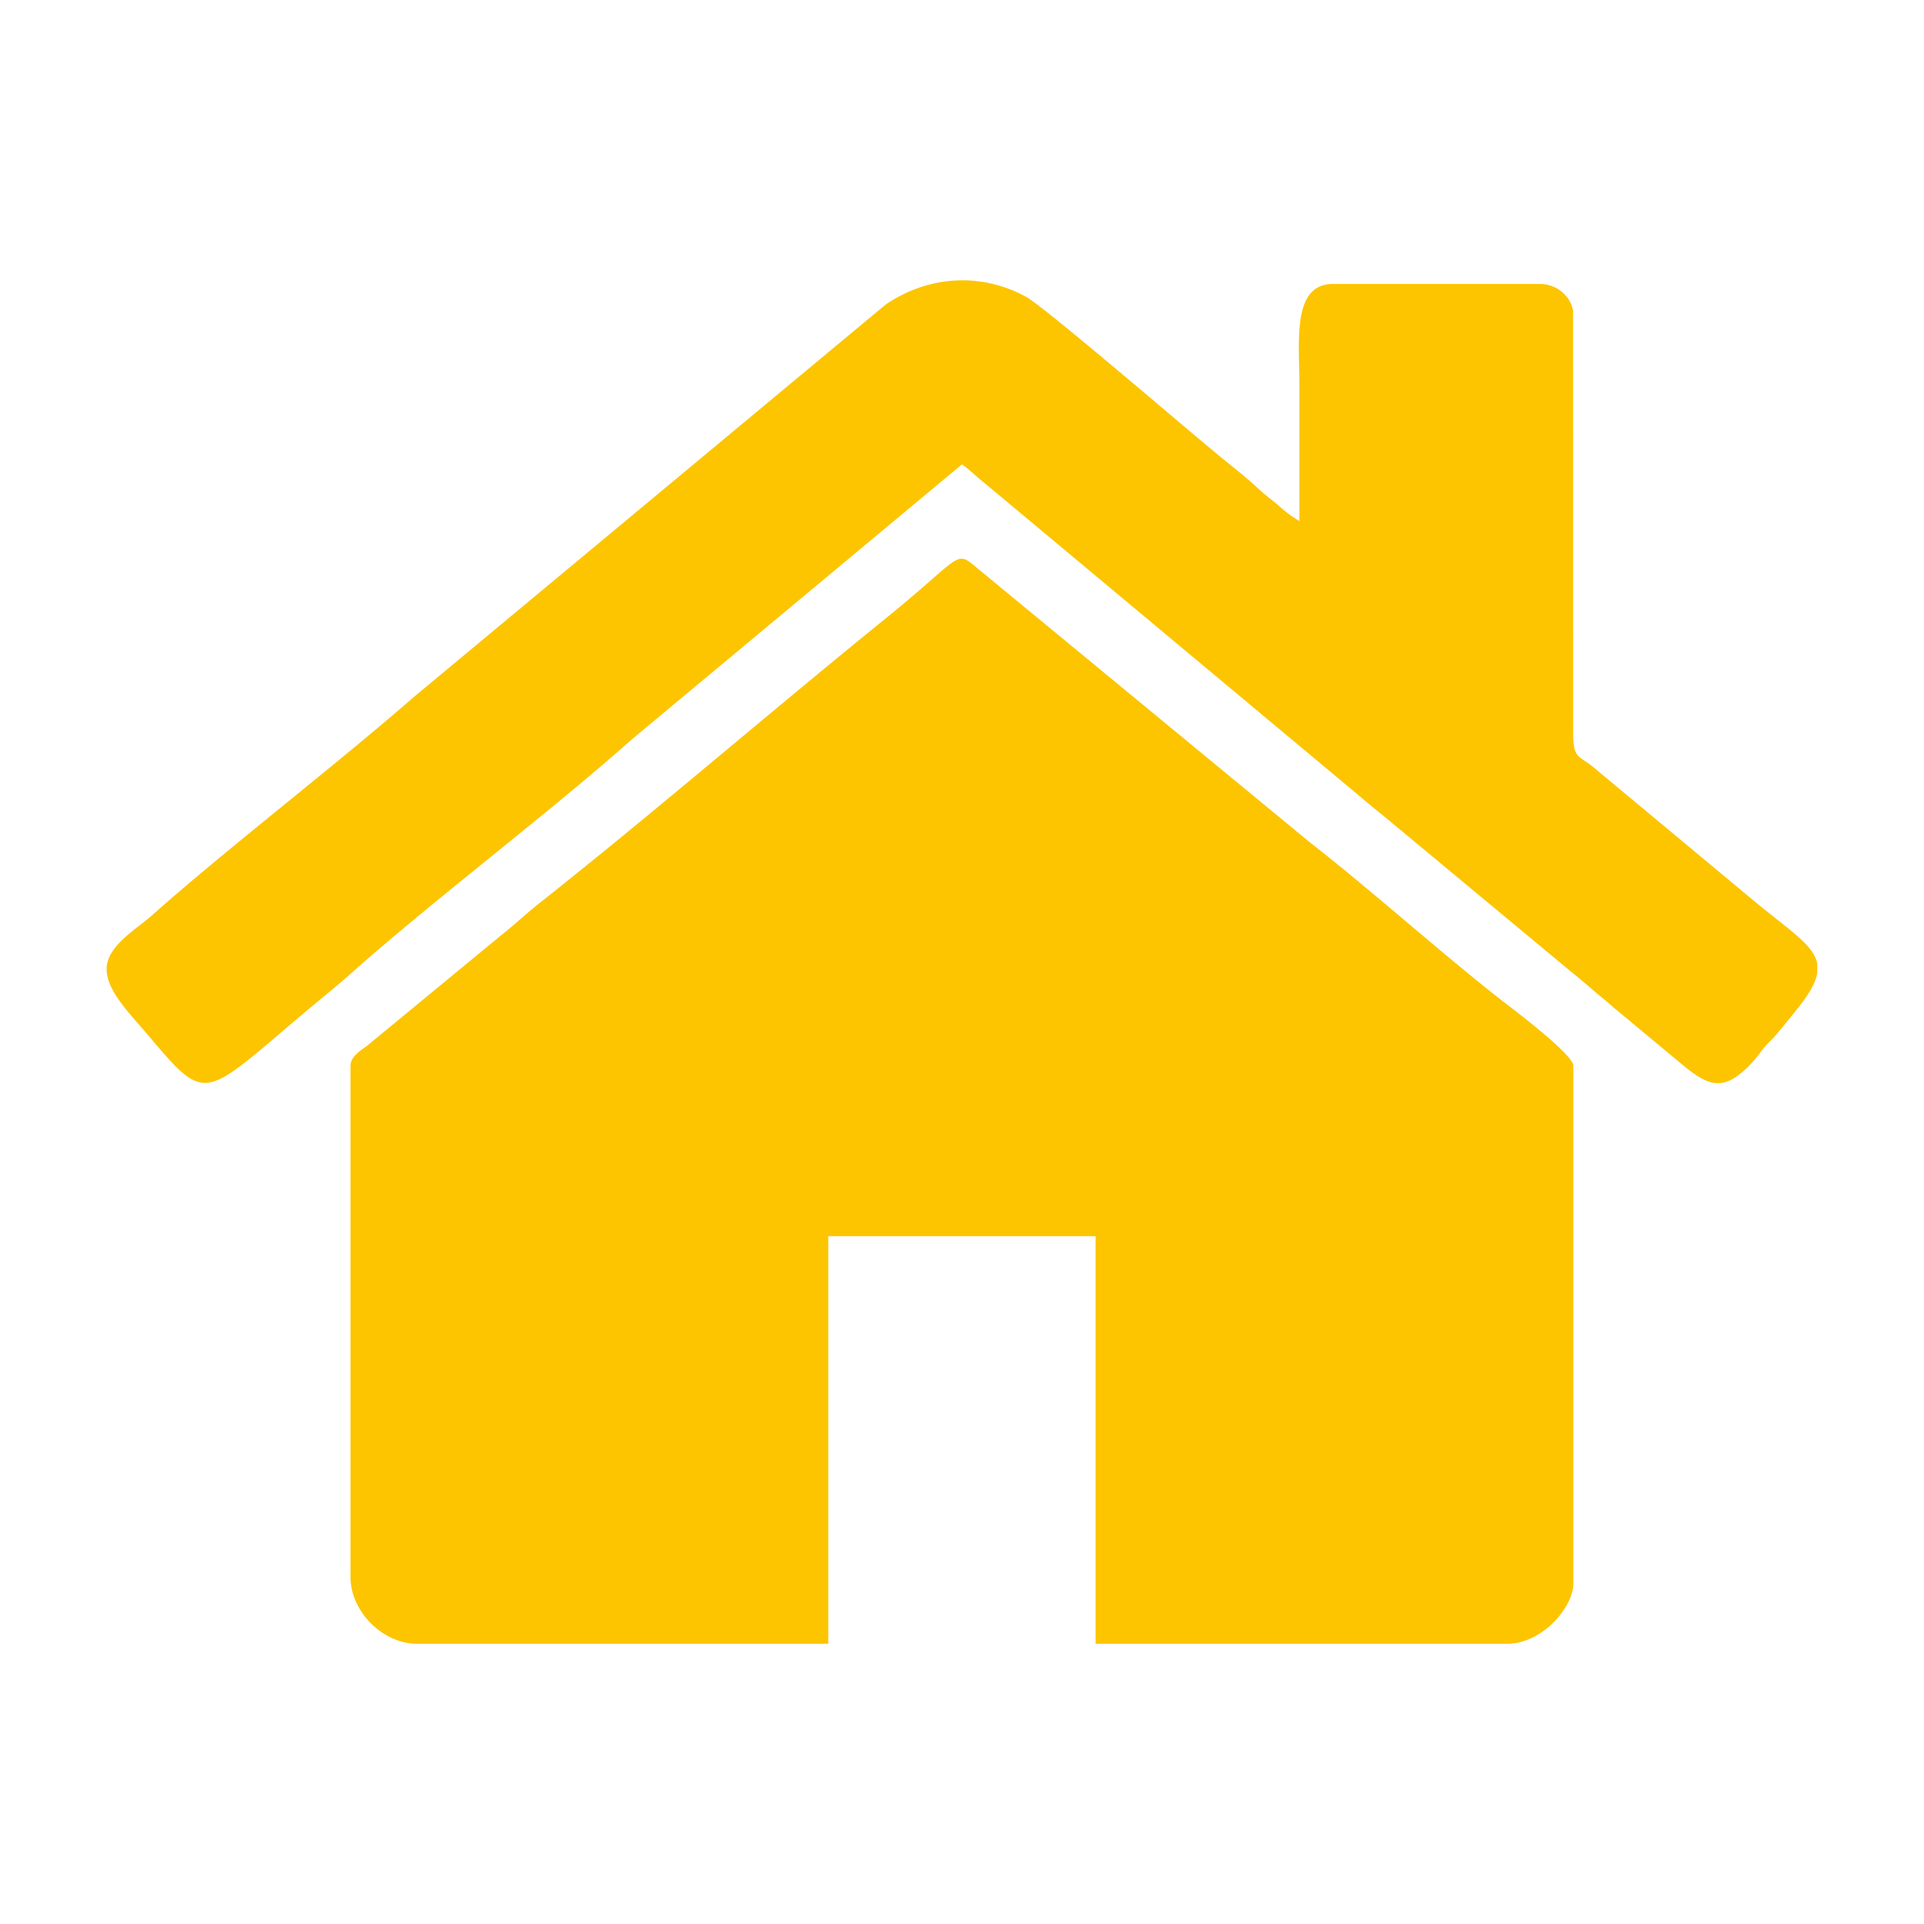
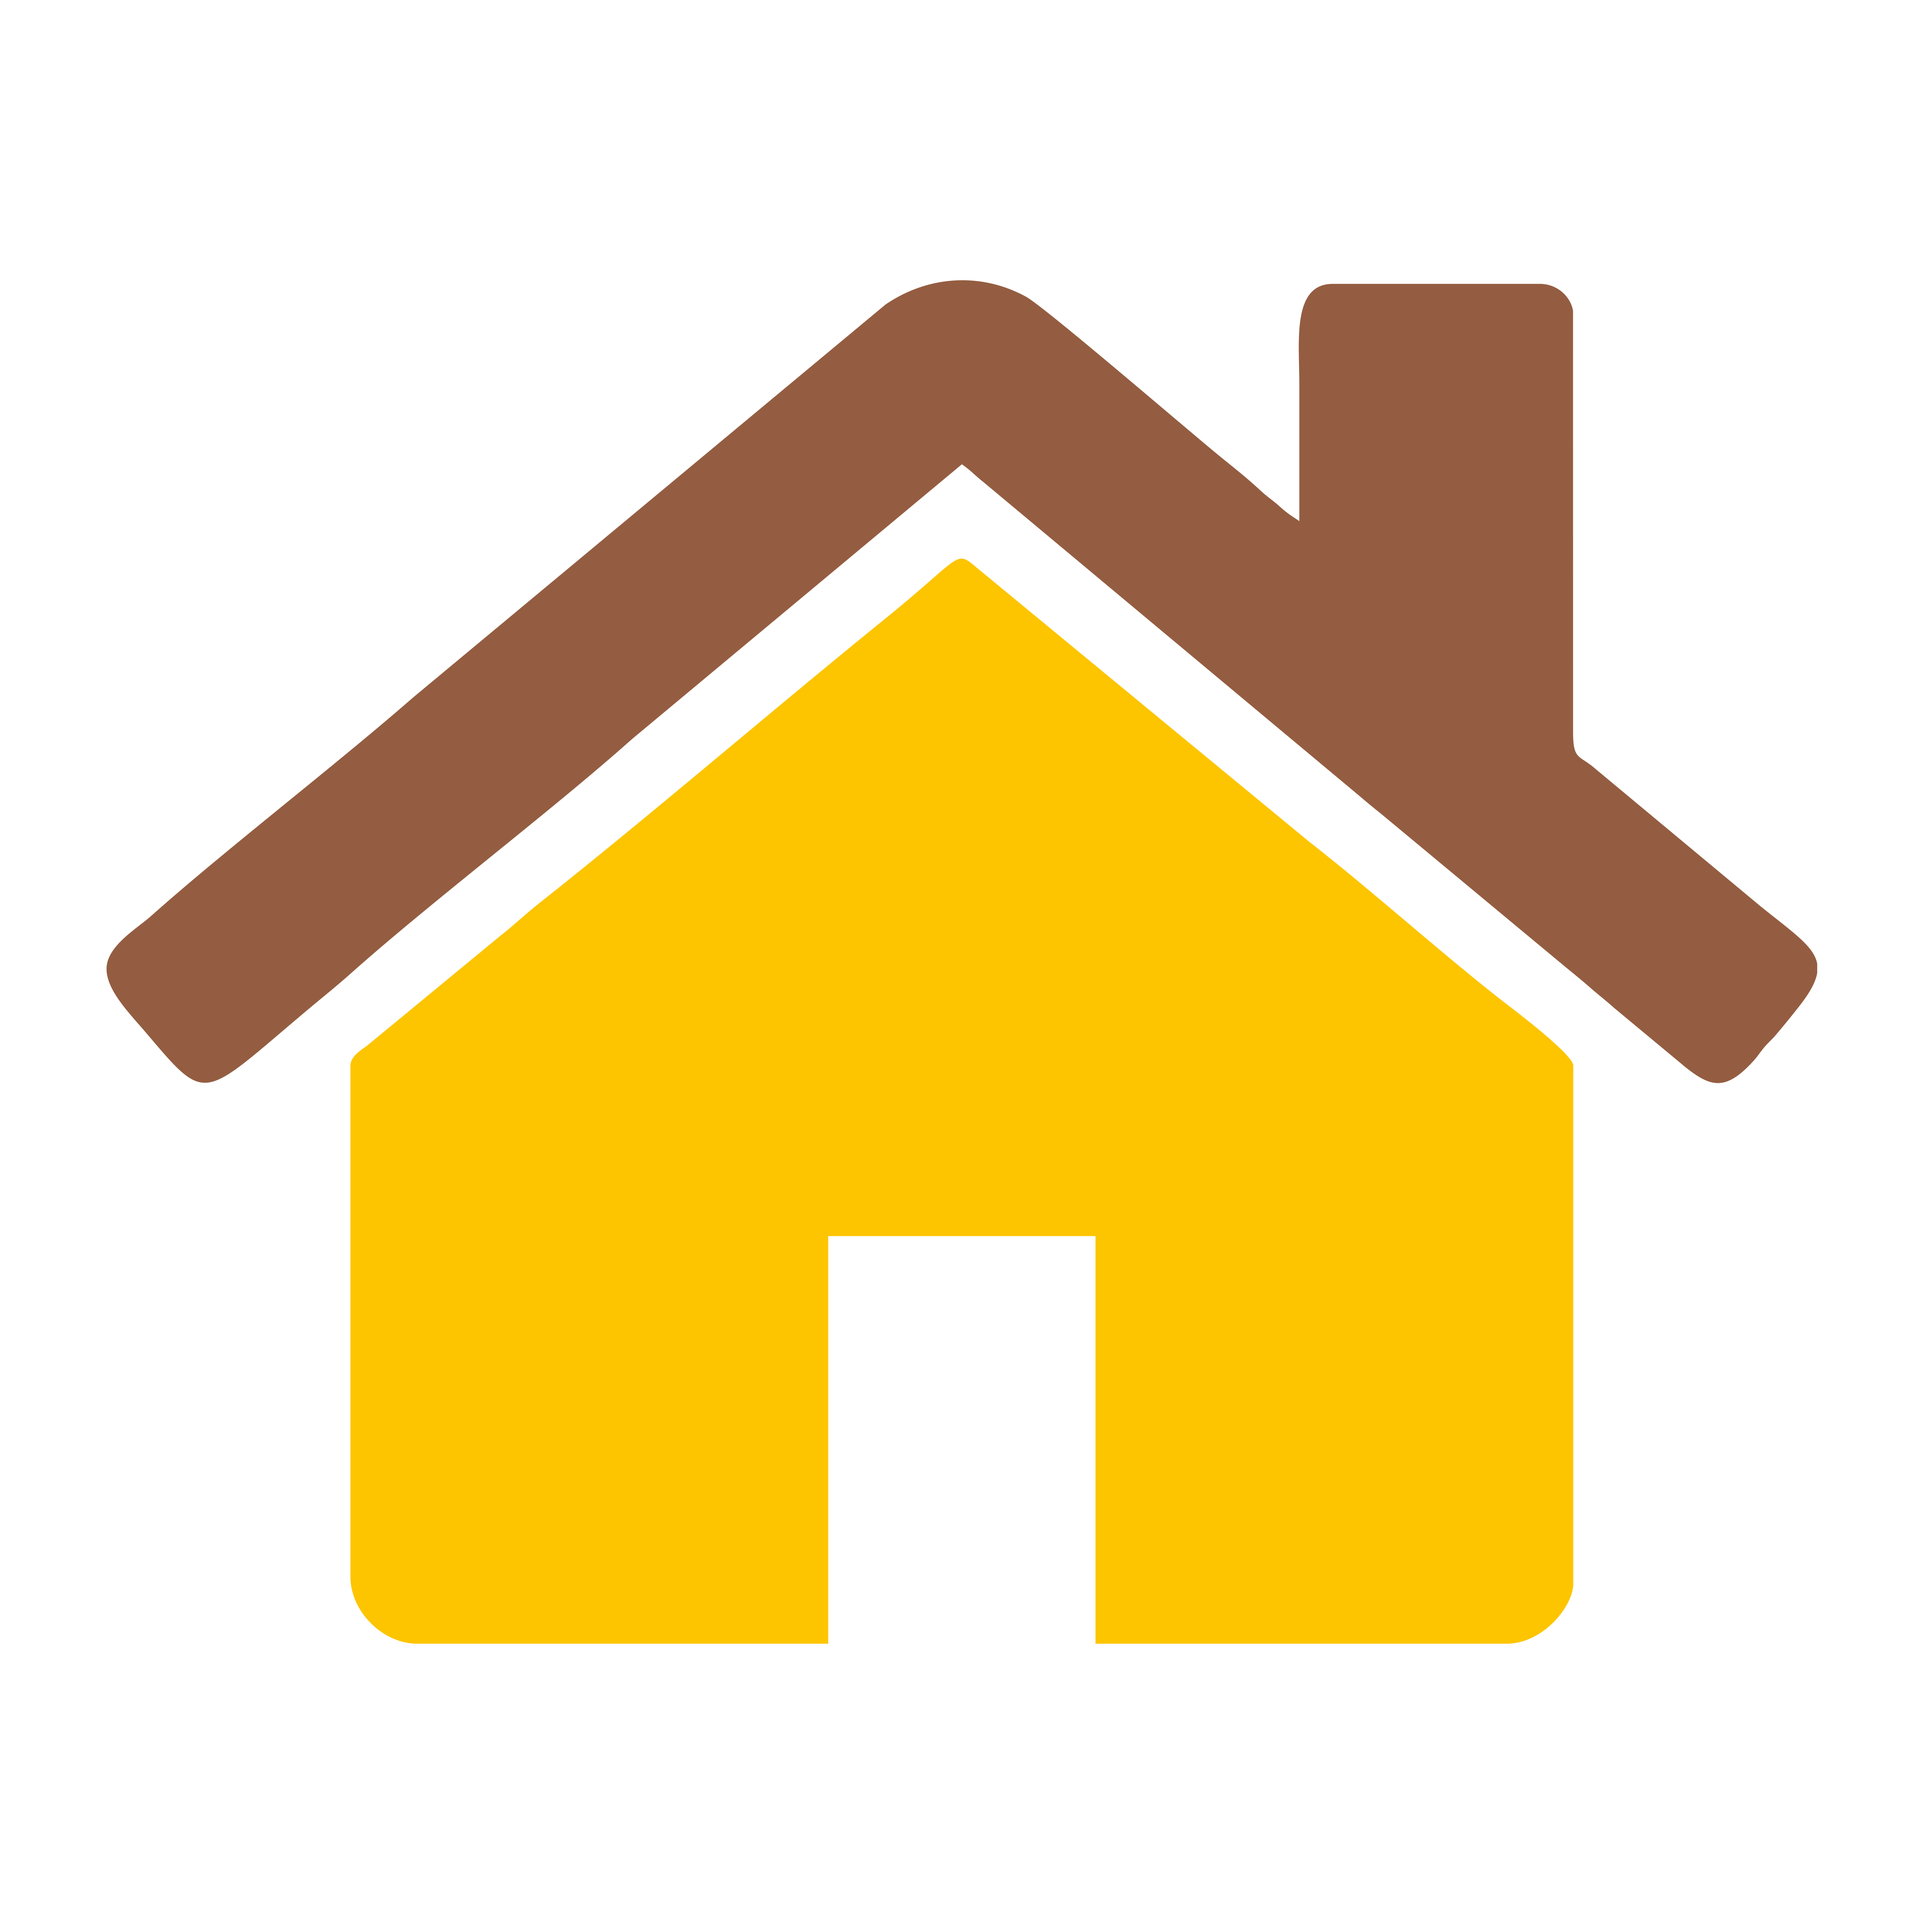
atualizacao icones tab bar

Changed region(s): [[0.0312, 0.1247, 0.9663, 0.5611]]

diff --git a/src/routes/routes.js b/src/routes/routes.js
@@ -1,5 +1,9 @@
+// import bibliotecas
 import React from 'react';
 import { createBottomTabNavigator } from '@react-navigation/bottom-tabs';
+import {
+    SafeAreaView
+} from 'react-native';
 
 //import paginas
 import Home from '../screens/Home/Home';
@@ -10,7 +14,10 @@ import Elos from '../screens/Elos/Elos';
 import iconeHome from '../assets/imgs/iconeHome.png';
 import iconeHome02 from '../assets/imgs/iconeHome02.png';
 import iconeProfile from '../assets/imgs/iconePerfil.png';
+import iconeProfile02 from '../assets/imgs/iconePerfil02.png';
 import iconeElo from '../assets/imgs/iconeElo.png';
+import iconeElo02 from '../assets/imgs/iconeElo02.png';
+
 
 
 //import estilos
@@ -37,14 +44,26 @@ export default function Routes(){
                 }
             break;
             case ("profile"):
-                return (
-                    <IconImages source={iconeProfile}></IconImages>
-                )
+                if (focused == false){
+                    return (
+                        <IconImages source={iconeProfile}></IconImages>
+                    )
+                }else{
+                    return(
+                    <IconImages source={iconeProfile02}></IconImages>
+                    )
+                }
             break;
             case ("elos"):
-                return (
-                    <IconImages source={iconeElo}></IconImages>
-                )
+                if (focused == false){
+                    return (
+                        <IconImages source={iconeElo}></IconImages>
+                    )
+                }else{
+                    return(
+                    <IconImages source={iconeElo02}></IconImages>
+                    )
+                }
             break;
         }
     }
@@ -57,7 +76,7 @@ export default function Routes(){
     }
 
     return(
-        
+
         <Tab.Navigator
             tabBarOptions={{
                 style:{
@@ -77,7 +96,7 @@ export default function Routes(){
                 tabBarLabel:"",
                 tabBarIcon: ({focused})=>(
                     renderIcons('home', focused)
-              )
+                )
             }}
             />
             <Tab.Screen 
@@ -86,9 +105,7 @@ export default function Routes(){
             options={{
                 tabBarLabel:"",
                 tabBarIcon: ({focused})=>(
-                    <IconImages
-                      source={iconeProfile}>
-                    </IconImages>
+                    renderIcons('profile', focused)
                 )
               }}
             />
@@ -97,10 +114,8 @@ export default function Routes(){
             component={Elos}
             options={{
                 tabBarLabel:"",
-                tabBarIcon: ()=>(
-                    <IconImages
-                      source={iconeElo}>
-                    </IconImages>
+                tabBarIcon: ({focused})=>(
+                    renderIcons('elos', focused)
                 )
               }} 
             />
